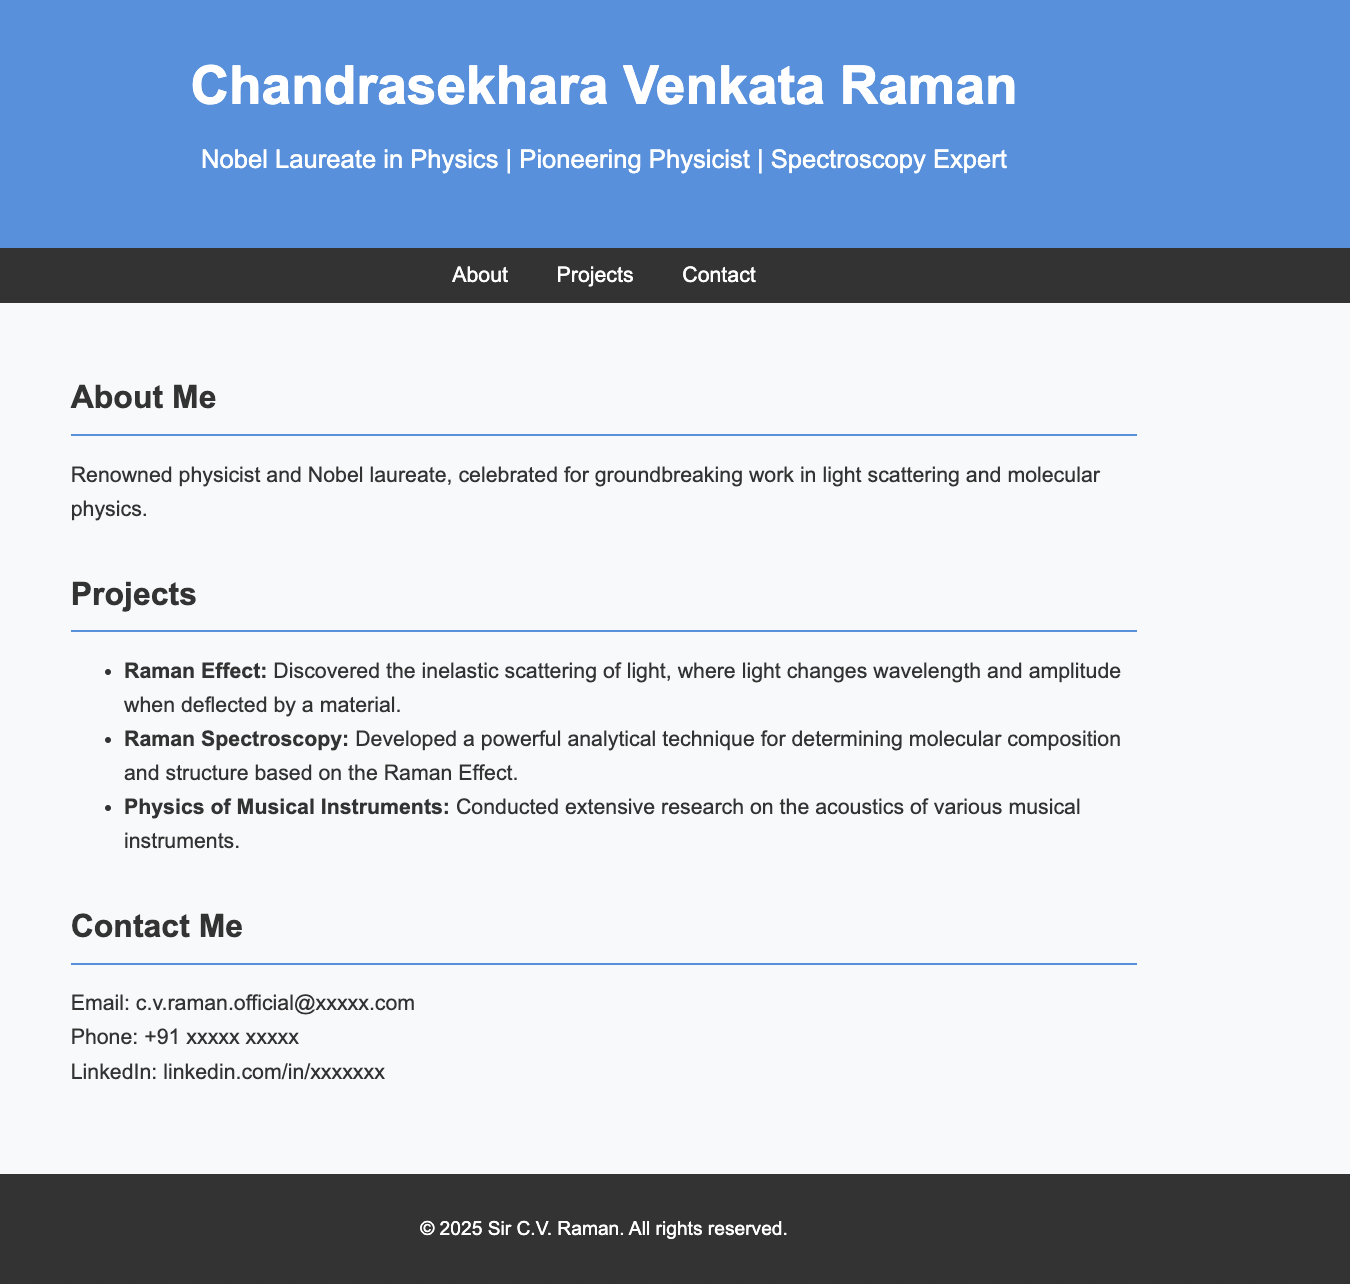
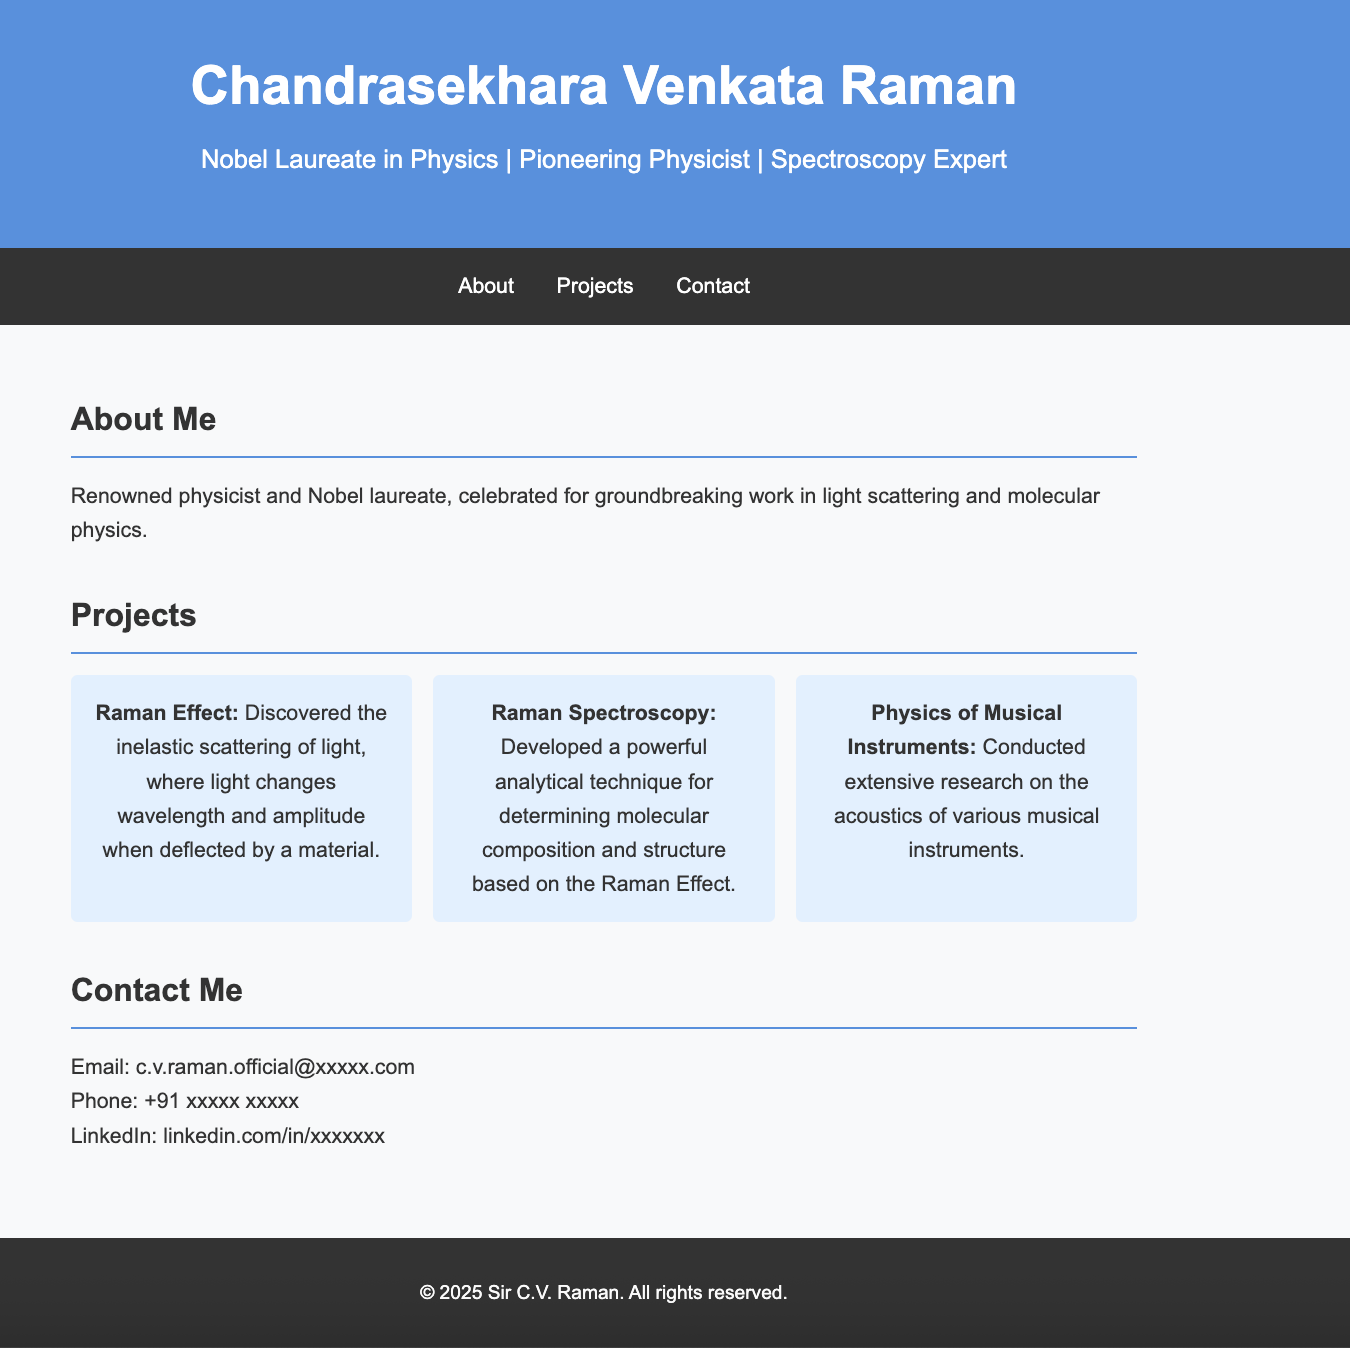
Chapter 4: Grids, Flexbox, and Responsive Design (#3)

diff --git a/index.html b/index.html
@@ -29,11 +29,11 @@
 
       <section id="projects">
         <h2>Projects</h2>
-        <ul>
-          <li><b>Raman Effect:</b> Discovered the inelastic scattering of light, where light changes wavelength and amplitude when deflected by a material.</li>
-          <li><b>Raman Spectroscopy:</b> Developed a powerful analytical technique for determining molecular composition and structure based on the Raman Effect.</li>
-          <li><b>Physics of Musical Instruments:</b> Conducted extensive research on the acoustics of various musical instruments.</li>
-        </ul>
+        <div class="project-grid">
+          <div class="project-item"><b>Raman Effect:</b> Discovered the inelastic scattering of light, where light changes wavelength and amplitude when deflected by a material.</div>
+          <div class="project-item"><b>Raman Spectroscopy:</b> Developed a powerful analytical technique for determining molecular composition and structure based on the Raman Effect.</div>
+          <div class="project-item"><b>Physics of Musical Instruments:</b> Conducted extensive research on the acoustics of various musical instruments.</div>
+        </div>
       </section>
 
       <section id="contact">

diff --git a/styles.css b/styles.css
@@ -74,3 +74,56 @@ body {
     padding: 1rem;
     font-size: 0.9rem;
   }
+
+  nav ul {
+    display: flex;
+    justify-content: center;
+    flex-wrap: wrap;
+  }
+  
+  nav ul li {
+    margin: 0.5rem 1rem;
+  }
+  
+  /* Project grid layout */
+  .project-grid {
+    display: grid;
+    grid-template-columns: repeat(auto-fit, minmax(200px, 1fr));
+    gap: 1rem;
+  }
+  
+  .project-item {
+    background-color: #e0f0ff;
+    padding: 1rem;
+    border-radius: 5px;
+    text-align: center;
+  }
+  
+  /* Responsive adjustments */
+  @media (max-width: 768px) {
+    header h1 {
+      font-size: 2rem;
+    }
+  
+    nav ul {
+      flex-direction: column;
+    }
+  
+    main {
+      padding: 1rem;
+    }
+  }
+  
+  @media (max-width: 480px) {
+    header {
+      padding: 1rem 0;
+    }
+  
+    header p {
+      font-size: 1rem;
+    }
+  
+    .project-grid {
+      grid-template-columns: 1fr;
+    }
+  }
